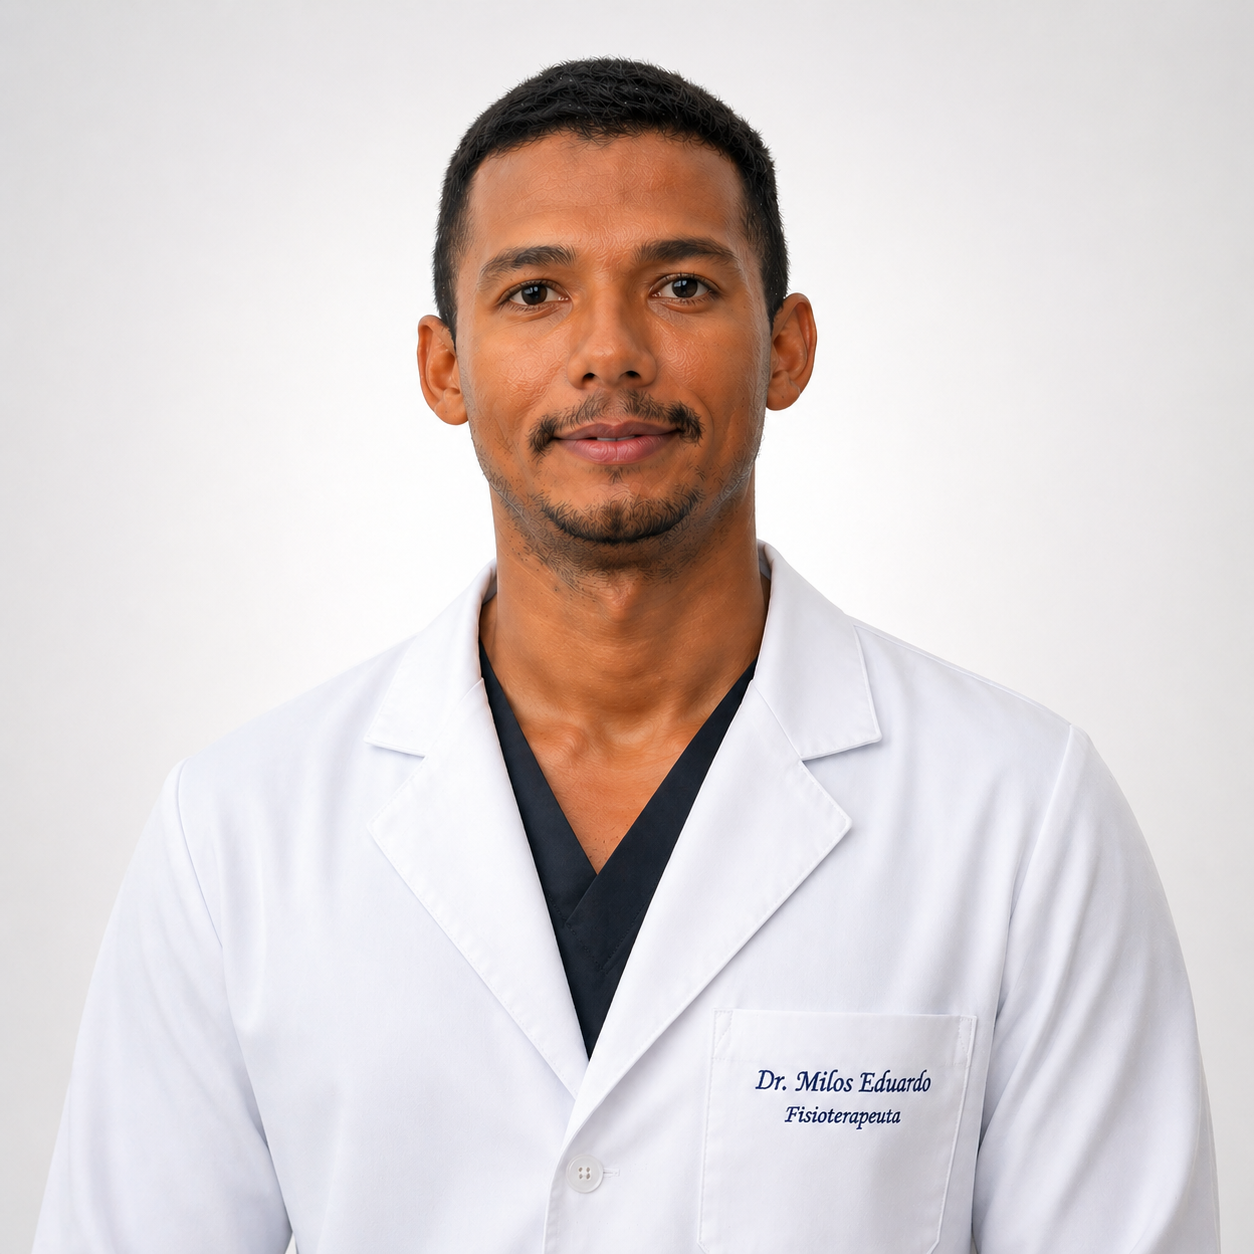
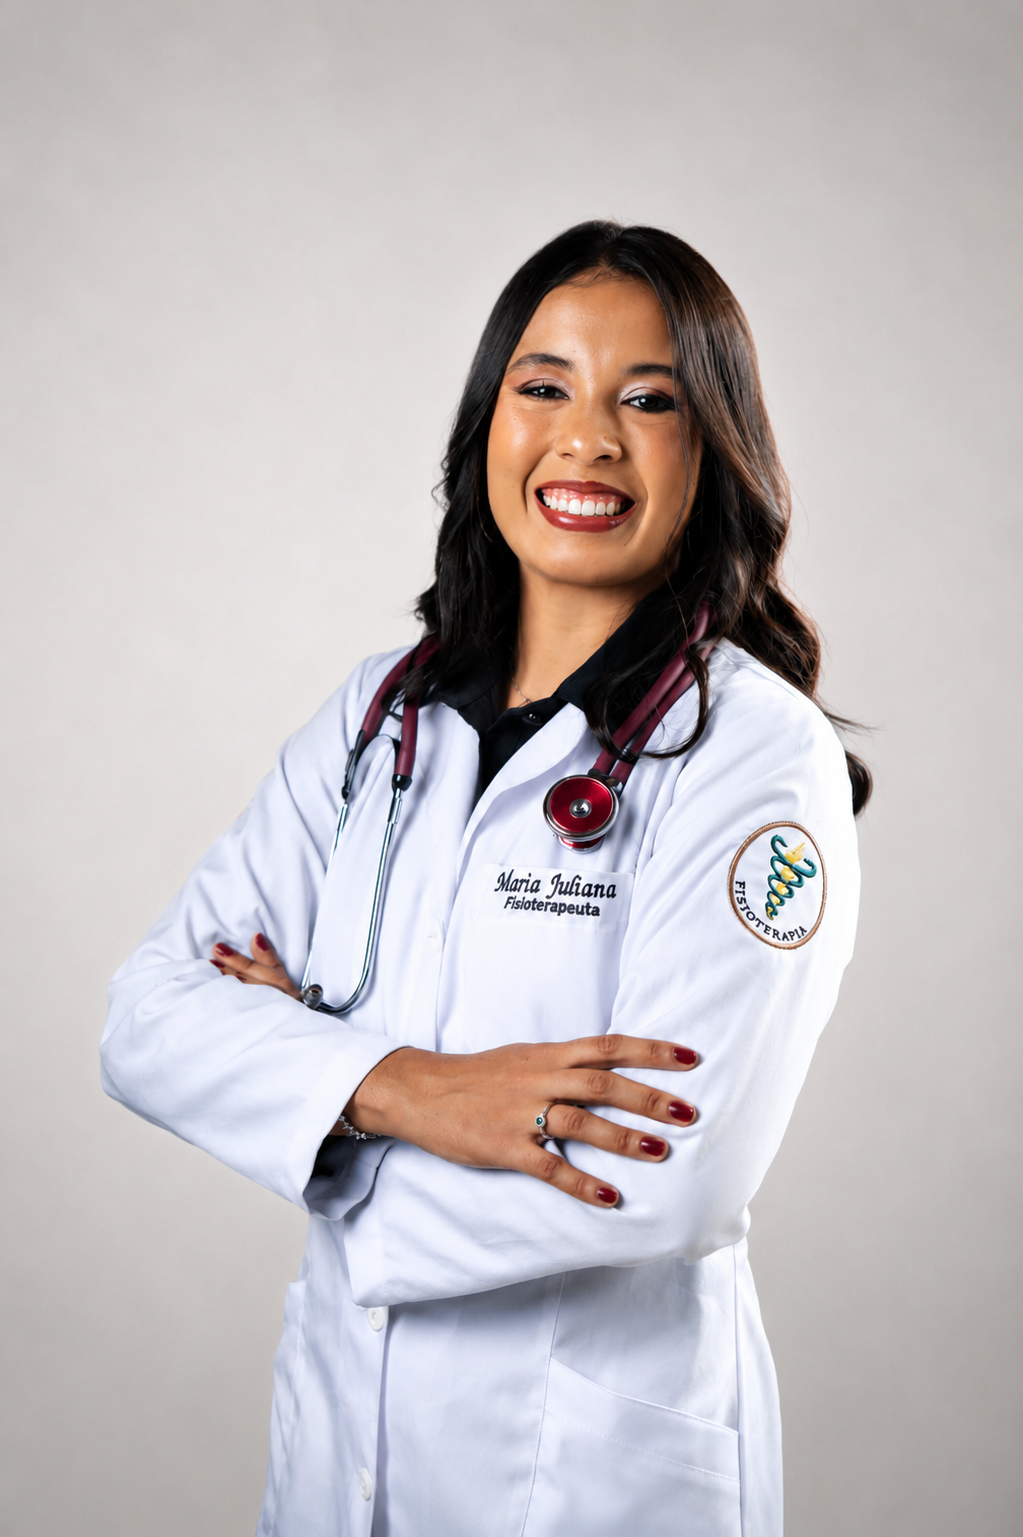
feat(team): update professional details and photos in team data

diff --git a/src/data/team.ts b/src/data/team.ts
@@ -51,23 +51,8 @@ export const EQUIPE: Profissional[] = [
     foto:    '/images/equipe/professora-pilates-em-belém.png',
     destaque: true,
   },
-  {
+      {
     id:     'profissional-3',
-    nome:   'Dr. Milos Eduardo',
-    titulo: 'Fisioterapeuta',
-    crefito: 'CREFITO-8 / 405414-F',
-    especializacoes: [
-      'Pilates',
-      'Reforço Muscular',
-      'Fisioterapia Ortopédica',
-      'Terapia Manual',
-    ],
-    foto:    '/images/equipe/fisioterapeuta-na-batista-campos.png',
-    destaque: true,
-  },
-
-    {
-    id:     'profissional-4',
     nome:   'Dra. Camila Nobre',
     titulo: 'Fisioterapeuta',
     crefito: 'CREFITO-8 / 168221-F',
@@ -80,6 +65,22 @@ export const EQUIPE: Profissional[] = [
     foto:    '/images/equipe/professora-pilates-em-batista-campos-belém.png',
     destaque: true,
   },
+  {
+    id:     'profissional-4',
+    nome:   'Dra. Juliana Gomes',
+    titulo: 'Fisioterapeuta',
+    crefito: 'CREFITO-12 / 444859-F',
+    especializacoes: [
+      'Pilates',
+      'Reforço Muscular',
+      'Fisioterapia Ortopédica',
+      'Terapia Manual',
+    ],
+    foto:    '/images/equipe/fisioterapeuta-na-batista-campos.png',
+    destaque: true,
+  },
+
+
 
   // ────────────────────────────────────────────────────────────
   // ✅ PARA ADICIONAR UM NOVO PROFISSIONAL, COPIE O BLOCO ABAIXO:
